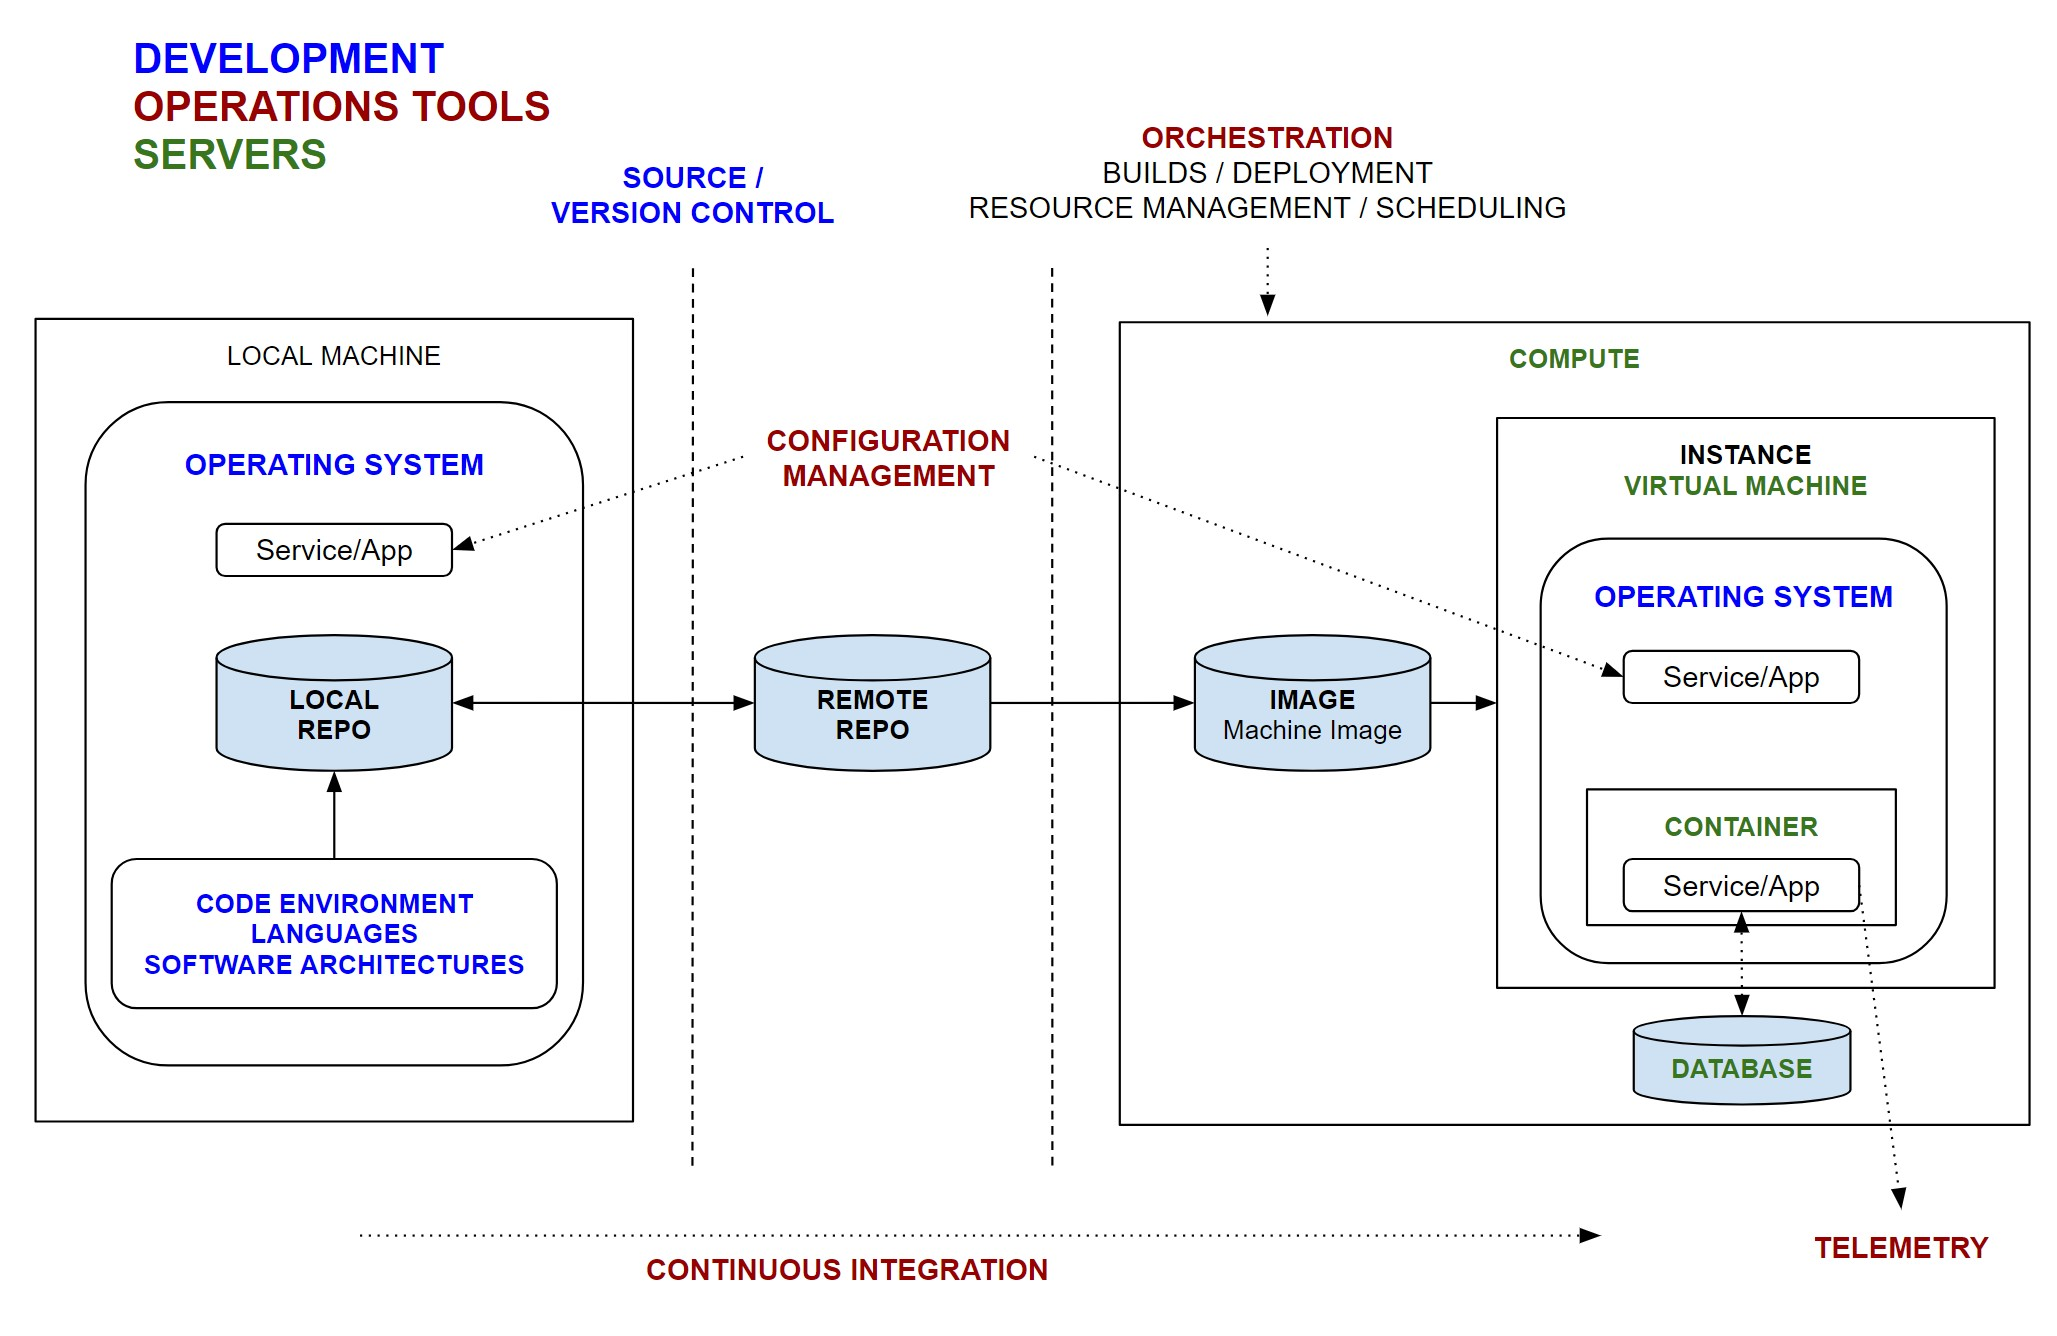
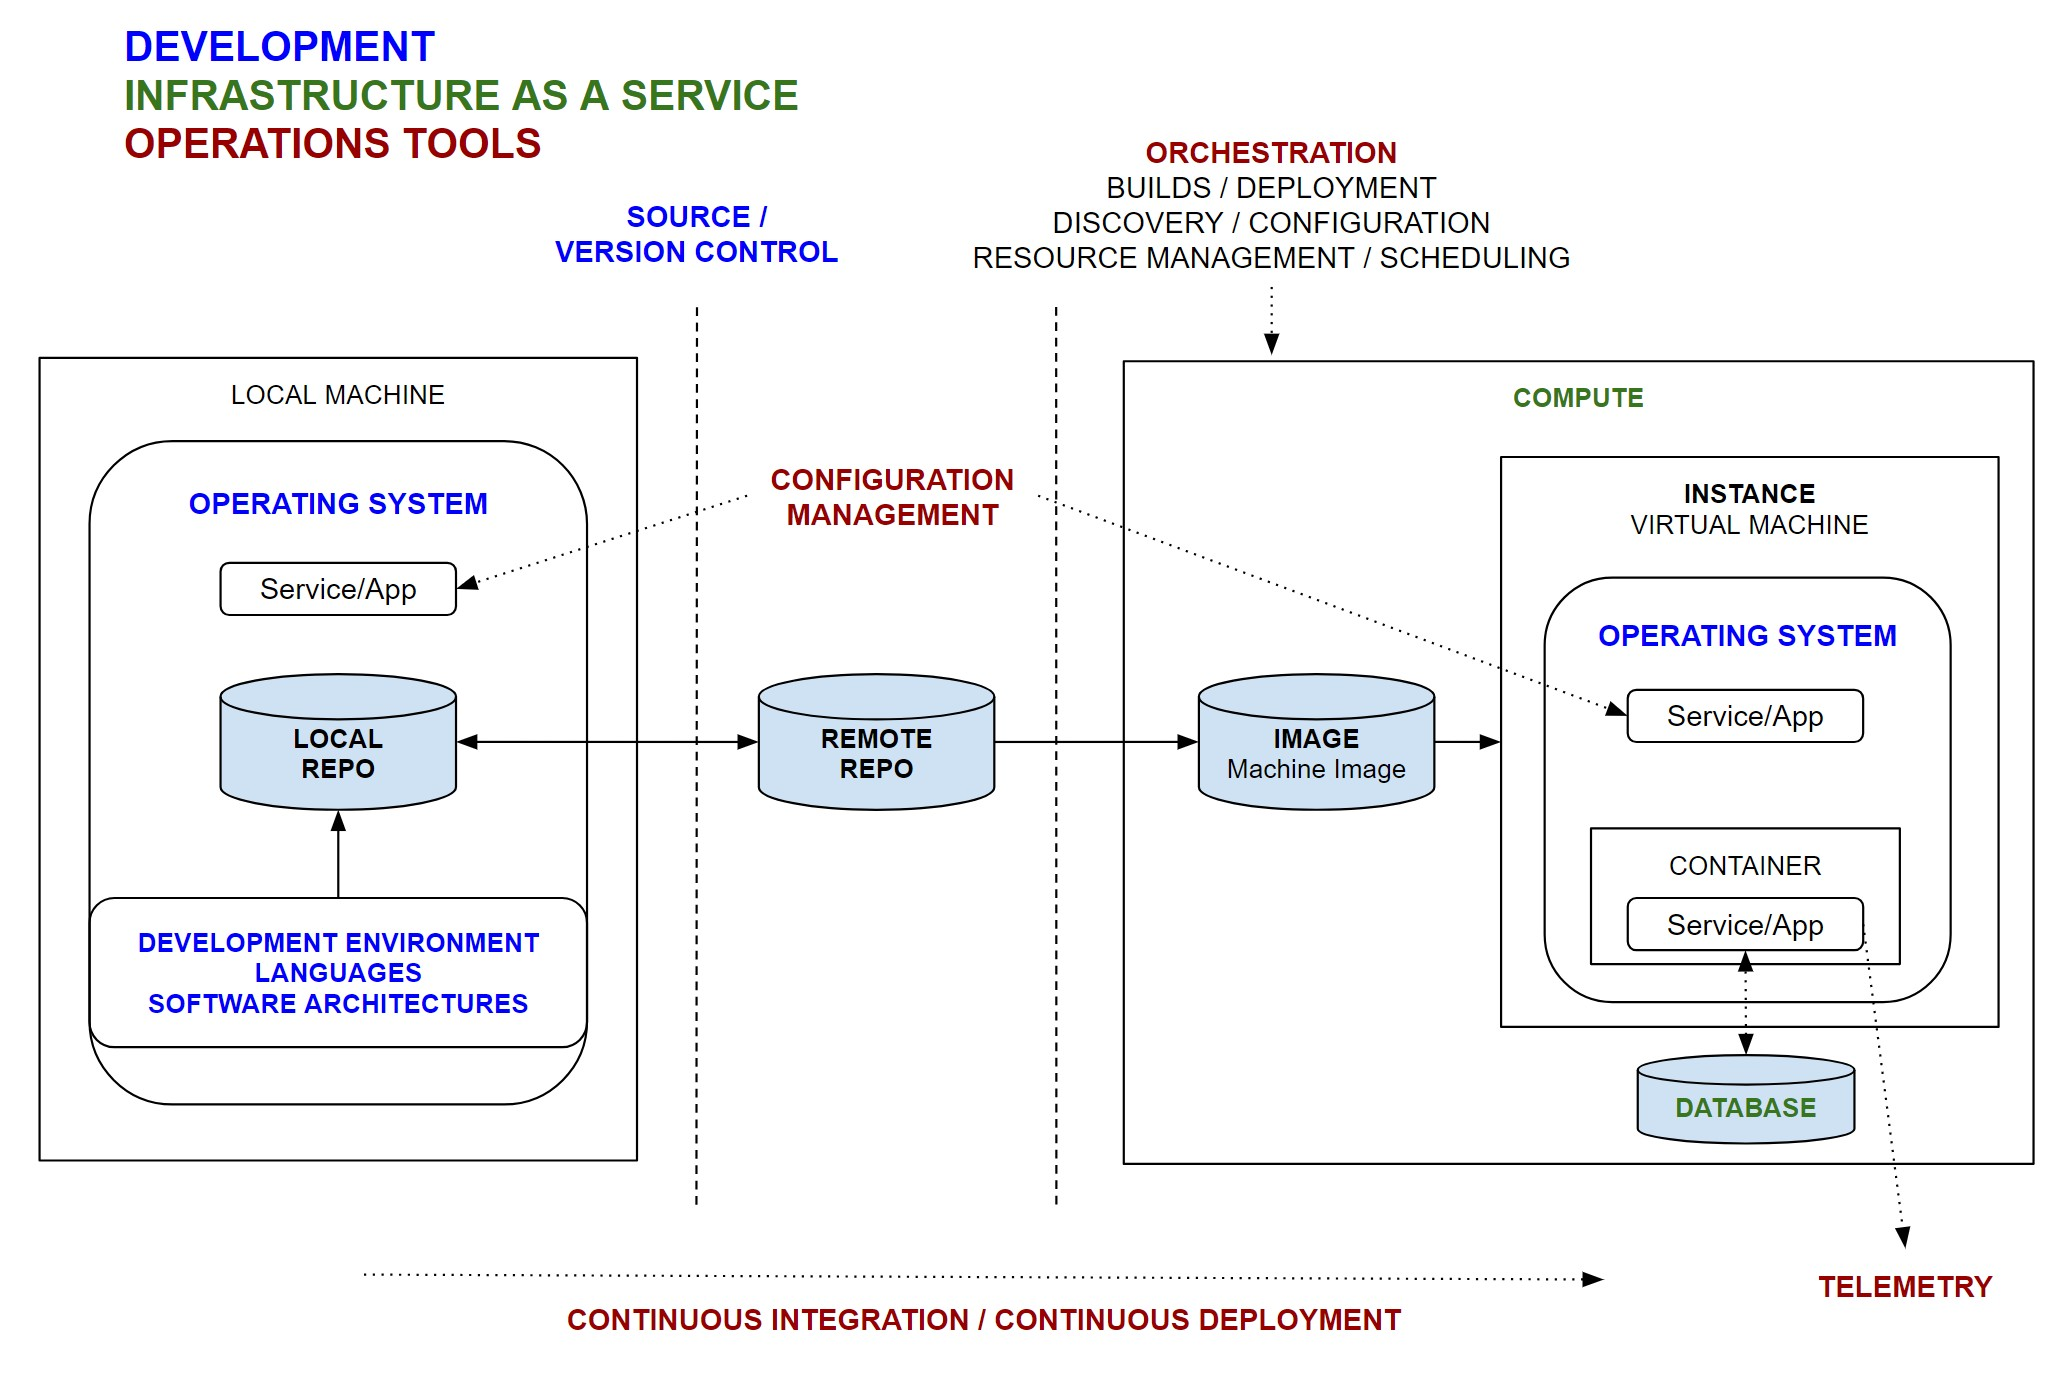
updated structure

diff --git a/README.md b/README.md
@@ -11,8 +11,8 @@ With this in mind, I organized my cheat sheets into three
 main sections, 
 
 * DEVELOPMENT
+* INFRASTRUCTURE AS A SERVICE
 * OPERATIONS TOOLS
-* IaaS (INFRASTRUCTURE as a SERVICE)
 
 [GitHub Webpage](https://jeffdecola.github.io/my-cheat-sheets/)
 
@@ -24,7 +24,7 @@ _Sections in alphabetical order_
 
 * DEVELOPMENT ENVIRONMENT
 
-  * [vagrant](https://github.com/JeffDeCola/my-cheat-sheets/tree/master/delelopment/development-environment/vagrant-cheat-sheet)
+  * [vagrant](https://github.com/JeffDeCola/my-cheat-sheets/tree/master/development/development-environment/vagrant-cheat-sheet)
   * [visual studio code](https://github.com/JeffDeCola/my-cheat-sheets/tree/master/development/development-environment/visual-studio-code-cheat-sheet)
 
 * LANGUAGES
@@ -68,7 +68,7 @@ _Sections in alphabetical order_
 
   * [git](https://github.com/JeffDeCola/my-cheat-sheets/tree/master/development/source-version-control/git-cheat-sheet)
 
-### IaaS (INFRASTRUCTURE as a SERVICE)
+### INFRASTRUCTURE AS A SERVICE
 
 * COMPUTE
 
@@ -110,7 +110,7 @@ _Sections in alphabetical order_
 
     * [kubernetes](https://github.com/JeffDeCola/my-cheat-sheets/tree/master/operations-tools/orchestration/resource-management-scheduling/kubernetes-cheat-sheet)
 
-    * [marathon](https://github.com/JeffDeCola/my-cheat-sheets/tree/master/operations-tools/orchestration/resource-management-scheduling/servers/compute/google-compute-engine-cheat-sheet)
+    * [marathon](https://github.com/JeffDeCola/my-cheat-sheets/tree/master/operations-tools/orchestration/resource-management-scheduling/google-compute-engine-cheat-sheet)
 
     * [mesos](https://github.com/JeffDeCola/my-cheat-sheets/tree/master/operations-tools/orchestration/resource-management-scheduling/mesos-cheat-sheet)
 

diff --git a/operations-tools/continuous-integration-continuous-deployment/concourse-ci-cheat-sheet/README.md b/operations-tools/continuous-integration-continuous-deployment/concourse-ci-cheat-sheet/README.md
@@ -56,7 +56,7 @@ The following diagram illustrates compase running a task called seach-and-replac
 
 If you want to store 'state', use a resource to send it offsite.
 
-![IMAGE - concourse cheat sheet structure - IMAGE](../docs/pics/Concourse-structure.jpg)
+![IMAGE - concourse cheat sheet structure - IMAGE](../../../docs/pics/Concourse-structure.jpg)
 
 ## LOAD PIPELINE TO CONCOURSE CI
 

diff --git a/operations-tools/orchestration/builds-deployment/docker-cheat-sheet/README.md b/operations-tools/orchestration/builds-deployment/docker-cheat-sheet/README.md
@@ -12,7 +12,7 @@ resource to place docker containers._
 The followng diagram shows the difference betwenn a Virtual Machine
 and a Docker Container.
 
-![IMAGE - Virtual-Machine-vs-Docker - IMAGE](../docs/pics/Virtual-Machine-vs-Docker.jpg)
+![IMAGE - Virtual-Machine-vs-Docker - IMAGE](../../../docs/pics/Virtual-Machine-vs-Docker.jpg)
 
 Virtual Machine:
 

diff --git a/operations-tools/telemetry/stackdriver-cheat-sheet/README.md b/operations-tools/telemetry/stackdriver-cheat-sheet/README.md
@@ -1,11 +1,8 @@
 # STACKDRIVER CHEAT SHEET
 
-`stackdriver` _is a Virtual Linux Container._ Docker Hub is an online
-resource to place docker containers.
+`stackdriver` _tbd._
 
 [GitHub Webpage](https://jeffdecola.github.io/my-cheat-sheets/)
-
-[Jeff's Docker Hub Images](https://hub.docker.com/u/jeffdecola/)
 
 ## TBD
 

diff --git a/development/source-version-control/git-cheat-sheet/README.md b/development/source-version-control/git-cheat-sheet/README.md
@@ -141,7 +141,7 @@ remote.origin.url=git@github.com:JeffDeCola/my-cheat-sheets.git
 
 The Git Workflow.
 
-![IMAGE - GIT Repo Workflow Diagram - IMAGE](../docs/pics/GIT-Repo-Workflow-Diagram.jpg)
+![IMAGE - GIT Repo Workflow Diagram - IMAGE](../../docs/pics/GIT-Repo-Workflow-Diagram.jpg)
 
 ### CLONE
 
